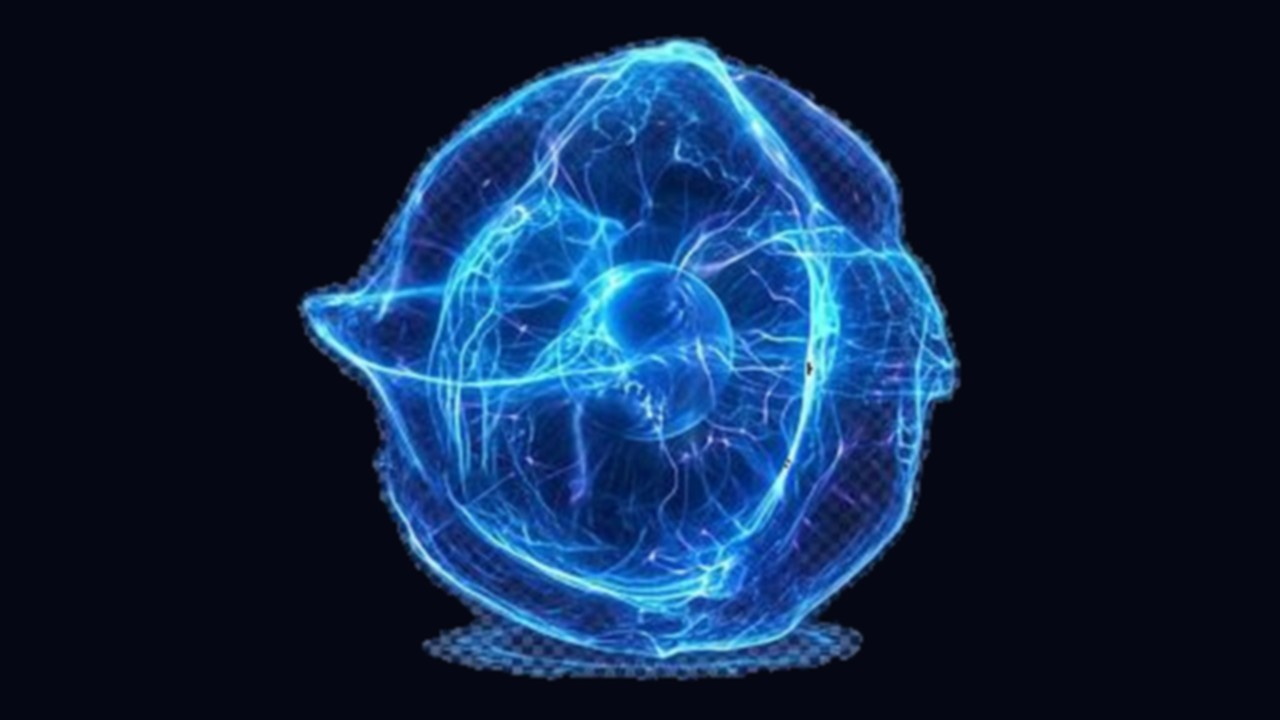
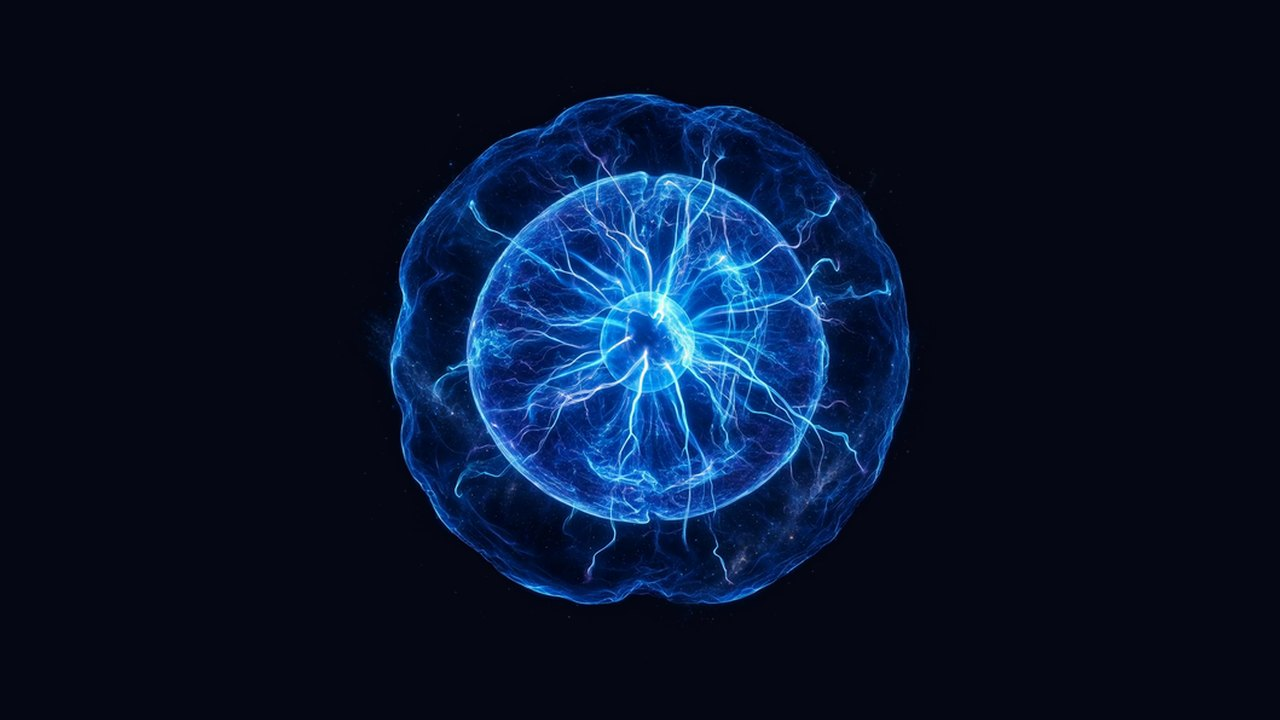
Nevoa do orbe em ciclo continuo e anel com borda viva

diff --git a/gpu.js b/gpu.js
@@ -20,27 +20,31 @@
   var fs = [
     "precision mediump float;",
     "uniform sampler2D uTex;uniform float uTime;uniform vec2 uRes;",
+    "vec3 cell(float idx, vec2 tuv){",
+    "float col=mod(idx,4.0);",
+    "float row=floor(idx/4.0);",
+    "vec2 uv=vec2(col/4.0,(1.0-(row+1.0))/2.0)+clamp(tuv,0.02,0.98)*vec2(0.25,0.5);",
+    "return texture2D(uTex,uv).rgb;",
+    "}",
     "void main(){",
     "vec3 navy=vec3(0.020,0.031,0.078);",
     "vec2 uv=gl_FragCoord.xy/uRes;",
-    "float aspect=uRes.x/max(uRes.y,1.0);",
-    "vec2 p=uv-vec2(0.58,0.64);",
-    "p.x*=aspect;",
-    "float ang=0.11*sin(uTime*0.42);",
-    "float cs=cos(ang);float sn=sin(ang);",
-    "vec2 r=vec2(cs*p.x-sn*p.y,sn*p.x+cs*p.y);",
-    "r.y+=0.025*sin(uTime*0.31);",
-    "float breathe=1.0+0.045*sin(uTime*0.52);",
-    "r/=breathe;",
-    "vec2 tuv=vec2(r.x/aspect,r.y)*1.12+0.5;",
-    "vec2 px=vec2(0.6/1024.0,0.6/720.0);",
-    "vec3 c=texture2D(uTex,tuv).rgb;",
-    "c=c*0.82+texture2D(uTex,tuv+px).rgb*0.06+texture2D(uTex,tuv-px).rgb*0.06+texture2D(uTex,tuv+vec2(px.x,-px.y)).rgb*0.03+texture2D(uTex,tuv+vec2(-px.x,px.y)).rgb*0.03;",
-    "float filament=pow(clamp(c.b,0.0,1.0),1.6);",
-    "c+=vec3(0.015,0.05,0.10)*filament*(0.5+0.5*sin(uTime*1.15+length(p)*7.0));",
-    "float edge=smoothstep(0.42,1.15,length(p));",
-    "c=mix(c,navy,edge*0.35);",
-    "if(tuv.x<0.0||tuv.y<0.0||tuv.x>1.0||tuv.y>1.0) c=navy;",
+    "vec2 p=uv-vec2(0.50,0.60);",
+    "p.x*=uRes.x/max(uRes.y,1.0);",
+    "float rad=0.36;",
+    "vec2 tuv=p/(rad*2.0)+0.5;",
+    "float cycle=mod(uTime,32.0)/32.0*8.0;",
+    "float i0=floor(cycle);",
+    "float f=fract(cycle);",
+    "f=f*f*(3.0-2.0*f);",
+    "float ang=cycle*0.785398;",
+    "vec2 q=tuv*6.28318;",
+    "vec2 flow=vec2(sin(q.y*2.0+ang)+0.5*sin(q.x*3.0-ang),cos(q.x*2.2+ang)+0.5*cos(q.y*2.6+ang))*0.02;",
+    "vec3 c=mix(cell(i0,tuv+flow),cell(mod(i0+1.0,8.0),tuv+flow),f);",
+    "float lum=max(c.r,max(c.g,c.b));",
+    "float keep=smoothstep(0.015,0.07,lum);",
+    "keep*=1.0-smoothstep(rad*0.9,rad*1.05,length(p));",
+    "c=mix(navy,c,clamp(keep,0.0,1.0));",
     "gl_FragColor=vec4(c,1.0);",
     "}",
   ].join("");
@@ -85,7 +89,7 @@
     lastDraw = 0;
     if (reduced) requestAnimationFrame(draw);
   };
-  img.src = "./fundo-orbe.jpg";
+  img.src = "./orbe-atlas.jpg";
   var dpr = Math.min(window.devicePixelRatio || 1, 1.25);
   var slow = 0;
   var lastDraw = 0;

diff --git a/styles.css b/styles.css
@@ -30,9 +30,8 @@ body {
 body::before { content: none; }
 html.no-gpu body::before {
   content: "";
-  position: fixed; inset: -8%; z-index: 0; pointer-events: none;
-  background: #050814 url("./fundo-orbe.jpg") center 42% / 72% auto no-repeat;
-  filter: blur(16px) saturate(.8) brightness(.7);
+  position: fixed; inset: 0; z-index: 0; pointer-events: none;
+  background: #050814 url("./fundo-orbe.jpg") center center / cover no-repeat;
 }
 body::after {
   content: "";
@@ -296,13 +295,15 @@ input:focus, select:focus, textarea:focus {
   width: 210px; height: 210px; margin: 8px auto;
   border-radius: 50%;
   display: grid; place-items: center;
-  background: conic-gradient(var(--mint) var(--p, 0%), rgba(60,230,255,.12) 0);
-  box-shadow: 0 0 36px rgba(60,230,255,.38);
+  background: conic-gradient(var(--mint) var(--p, 0%), rgba(60,230,255,.2) 0);
+  box-shadow: 0 0 28px rgba(60,230,255,.45);
+  animation: ringGlow 3.6s ease-in-out infinite;
 }
 .ring > span {
-  width: 150px; height: 150px; border-radius: 50%;
+  width: 152px; height: 152px; border-radius: 50%;
   background: #07101c; display: grid; place-items: center;
   text-align: center;
+  animation: ringRim 3.6s ease-in-out infinite;
 }
 .zoom-box { display: flex; align-items: center; gap: 6px; margin-left: auto; }
 .zoom-box button {
@@ -397,6 +398,14 @@ input:focus, select:focus, textarea:focus {
   from { opacity: 0; transform: translateY(10px); }
   to { opacity: 1; transform: none; }
 }
+@keyframes ringGlow {
+  0%, 100% { box-shadow: 0 0 20px rgba(60,230,255,.34), 0 0 0 1px rgba(60,230,255,.22); }
+  50% { box-shadow: 0 0 42px rgba(60,230,255,.62), 0 0 0 1px rgba(122,246,255,.5); }
+}
+@keyframes ringRim {
+  0%, 100% { width: 158px; height: 158px; }
+  50% { width: 140px; height: 140px; box-shadow: inset 0 0 14px rgba(60,230,255,.28); }
+}
 @keyframes pulseGlow {
   50% { transform: scale(1.04); }
 }
@@ -412,7 +421,6 @@ input:focus, select:focus, textarea:focus {
   50% { box-shadow: inset 3px 0 0 var(--mint), 0 0 16px rgba(60,230,255,.2); }
 }
 .sheet-wrap, .sheet-wrap * { animation: none !important; }
-.ring { animation: pulseGlow 2.8s ease-in-out infinite; }
 .bar > i {
   transform-origin: left center;
   box-shadow: 0 0 12px rgba(60,230,255,.55);

diff --git a/index.html b/index.html
@@ -7,7 +7,7 @@
   <title>Planilha Inteligente</title>
   <link rel="manifest" href="./manifest.json" />
   <link rel="icon" href="./logo-pi.svg" />
-  <link rel="stylesheet" href="./styles.css?v=27" />
+  <link rel="stylesheet" href="./styles.css?v=28" />
 </head>
 <body>
   <canvas id="nebula" aria-hidden="true"></canvas>
@@ -129,7 +129,7 @@
   <script src="./engine.js"></script>
   <script src="./projetos/gcm-nisia.js"></script>
   <script src="./projetos/modelo.js"></script>
-  <script src="./gpu.js?v=3"></script>
+  <script src="./gpu.js?v=6"></script>
   <script src="./app.js?v=18"></script>
   <script src="./session.js?v=16"></script>
 </body>
